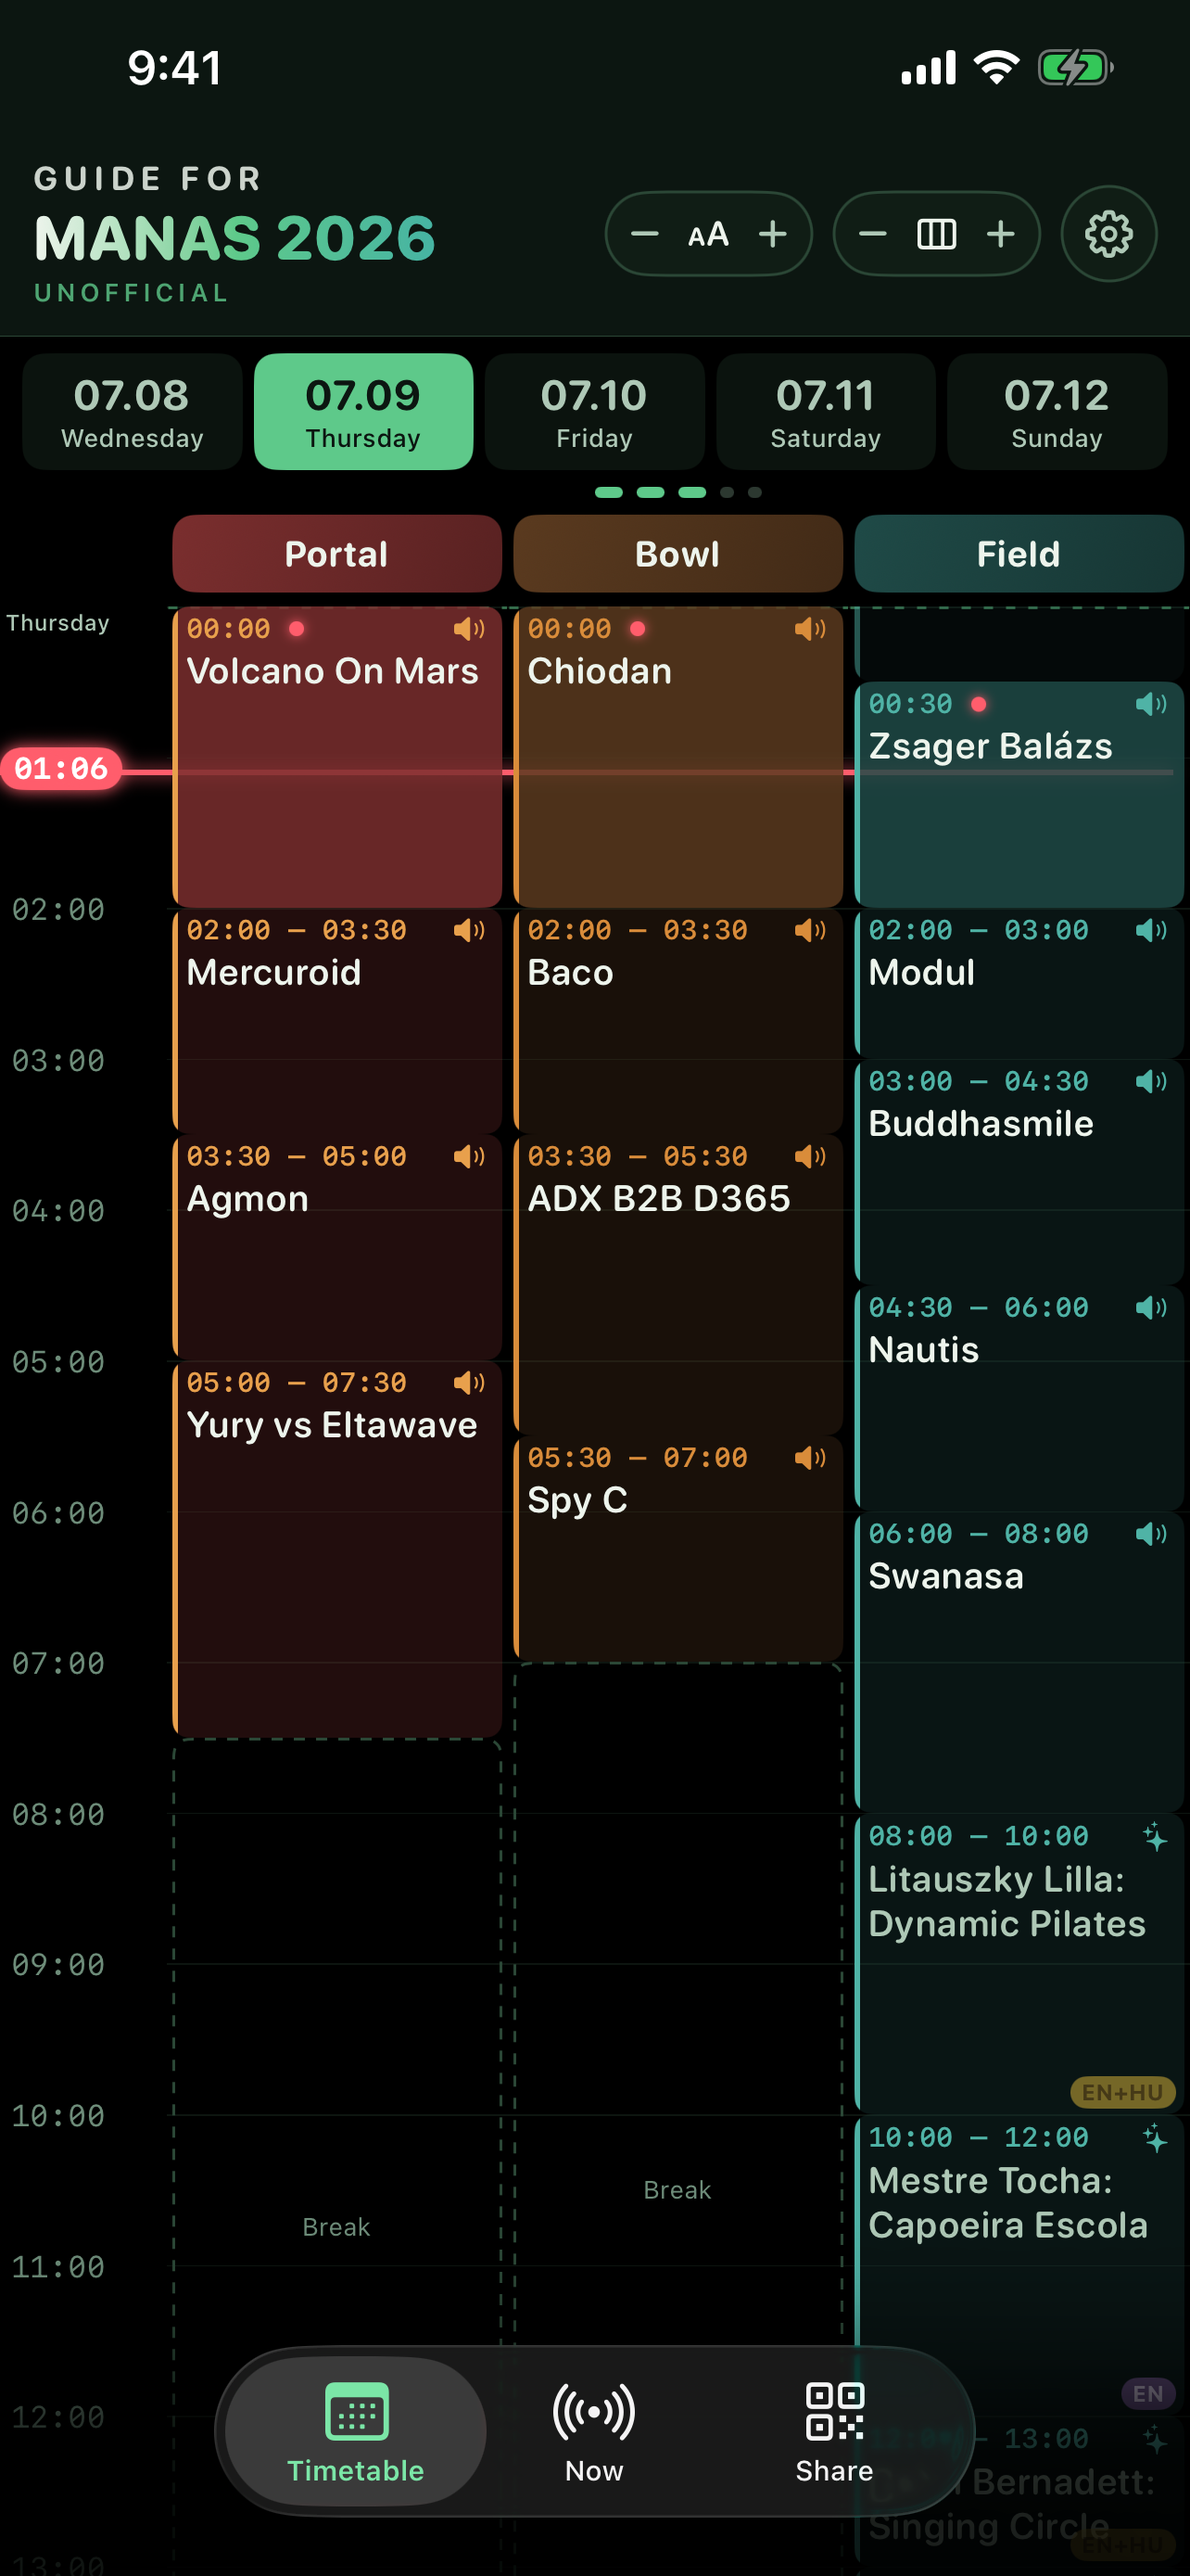
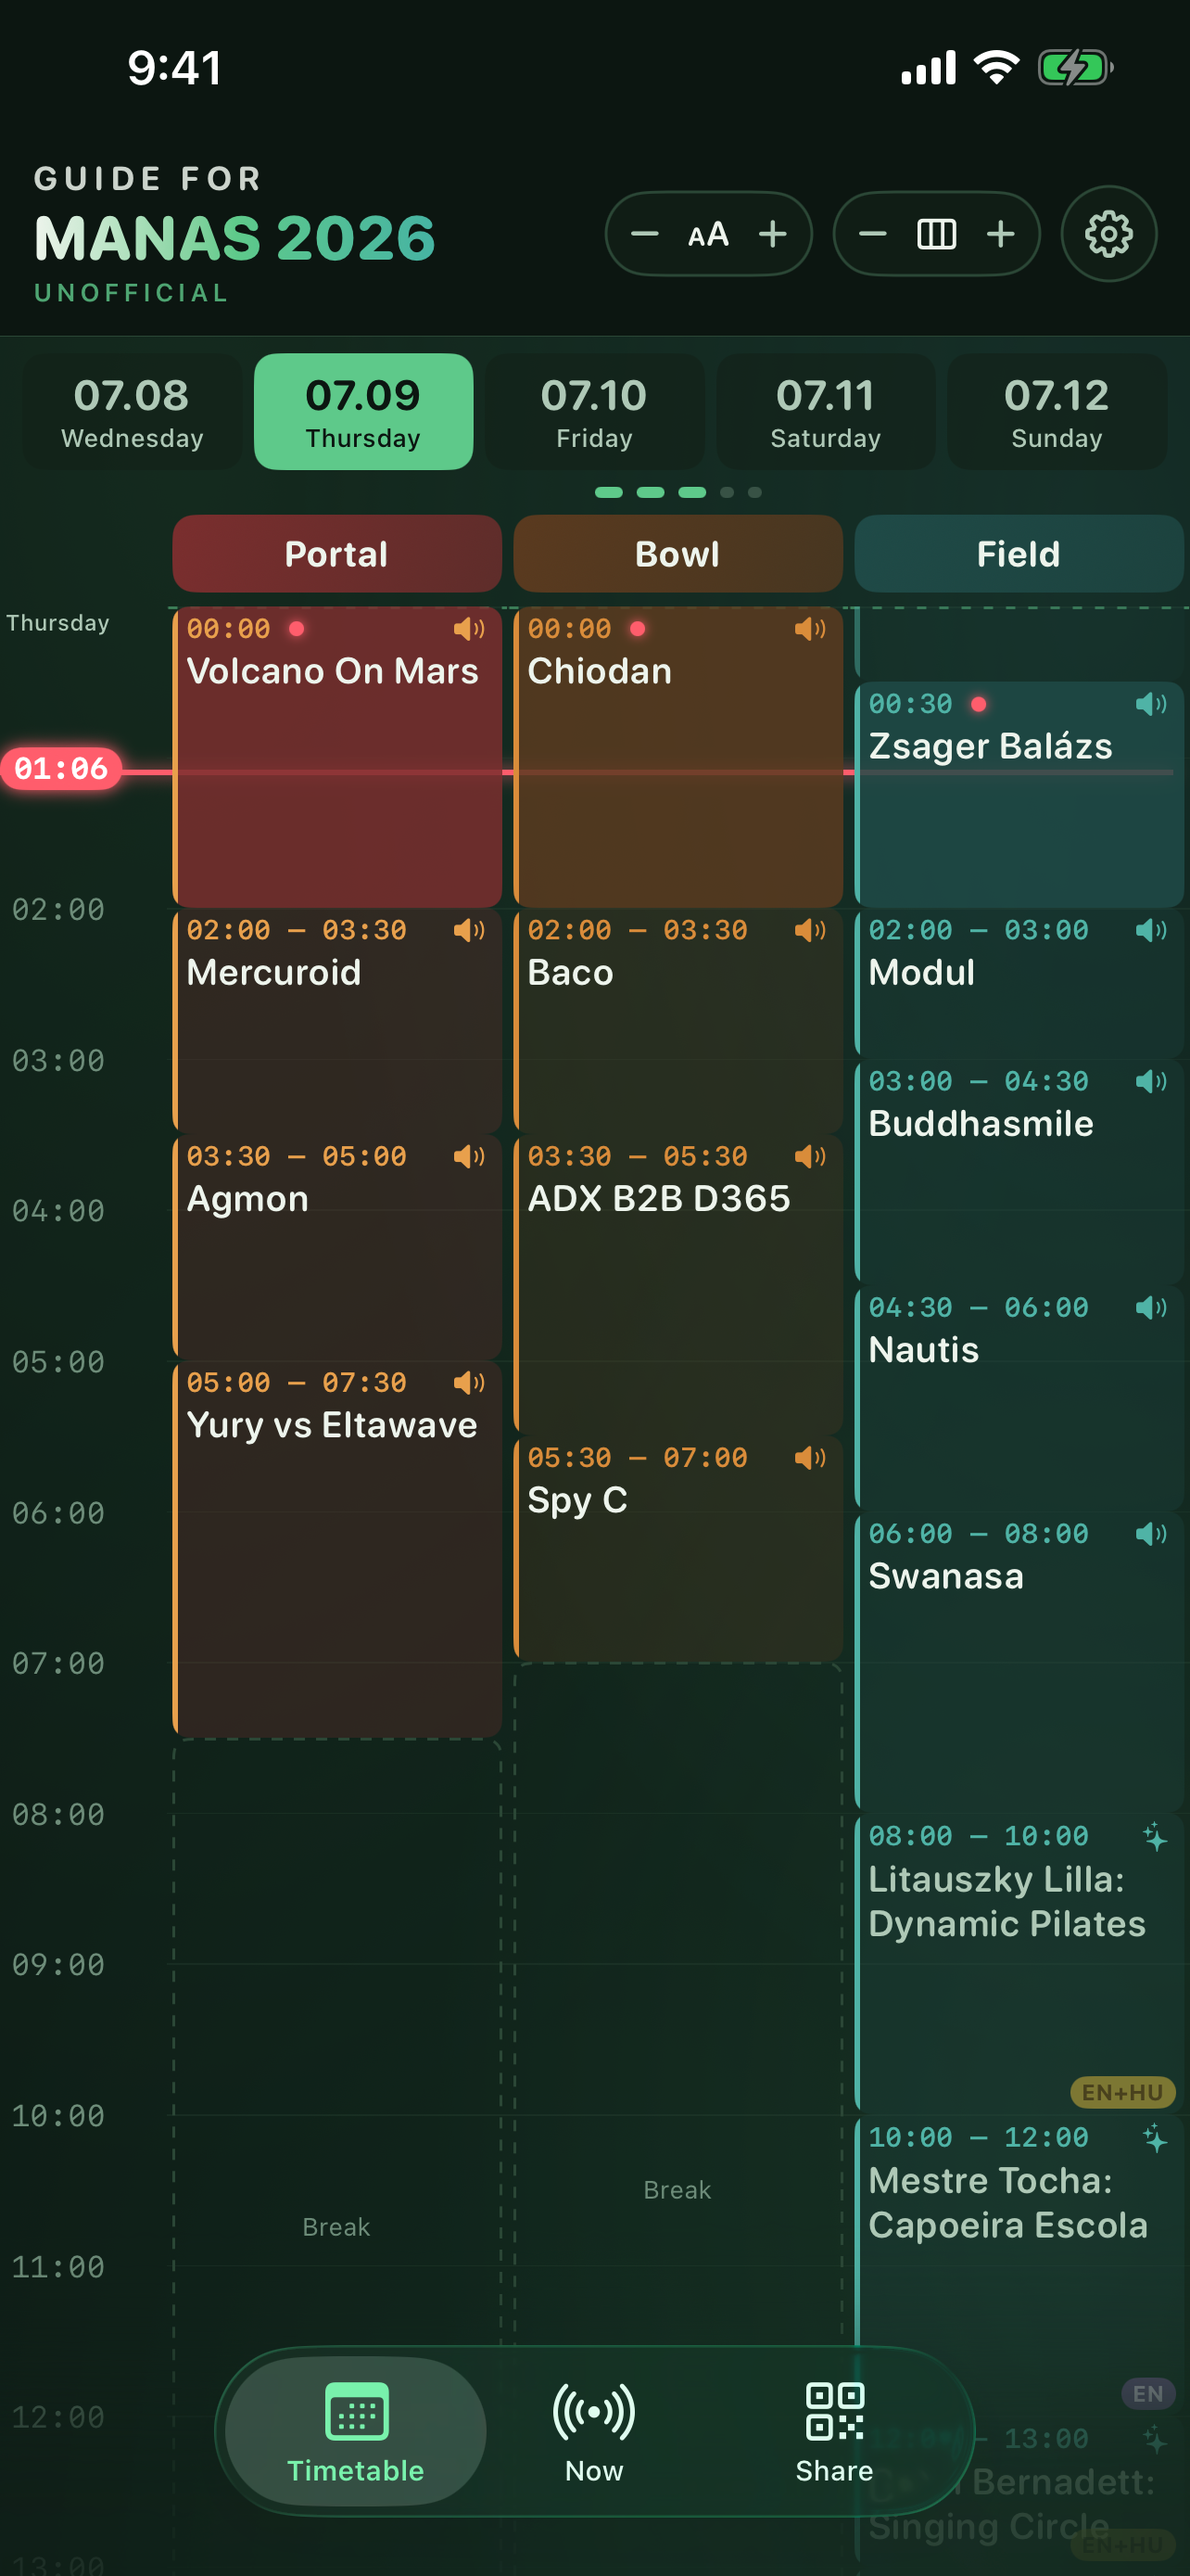
feat(ios): add PWA-style background gradient and opening-day & GROUNDING App Store shots
Port the web's body radial-gradient fade to the iOS app as a soft green/teal glow below the header (the header keeps its flat band). Slow the opening-day tent pitch to match the web (~5.2s) and gently wave the flag. Freeze now-view motion (tent, flag, live dot, event-icon pulse) during screenshot captures via the existing manas.hideTestUI flag, so the tent renders fully pitched instead of a random frame. Add two App Store shots — the opening-day camp scene (Bowl playing, you-are-here at the Bowl) and the post-festival GROUNDING Days link — and refresh the existing iPhone shots for the new background.

diff --git a/apple/Sources/ManasKit/CampScene.swift b/apple/Sources/ManasKit/CampScene.swift
@@ -34,6 +34,10 @@ public extension ScheduleData {
 /// frame it's given, so iOS (220×150) and the watch reuse the same drawing.
 public struct TentArt: View {
     @Environment(\.accessibilityReduceMotion) private var reduceMotion
+    // Render motionless for Reduce Motion — and for marketing captures: the
+    // screenshot harness sets `manas.hideTestUI`, so the tent shows fully
+    // pitched instead of a random animation frame.
+    private var still: Bool { reduceMotion || AppEnv.hideTestUI }
 
     public init() {}
 
@@ -67,7 +71,7 @@ public struct TentArt: View {
                 GrassTufts()
                     .stroke(Theme.leaf, style: StrokeStyle(lineWidth: 2, lineCap: .round))
                     .opacity(0.7)
-                if reduceMotion {
+                if still {
                     tentGroup
                 } else {
                     PhaseAnimator(TentPhase.allCases) { phase in
@@ -91,9 +95,9 @@ private enum TentPhase: CaseIterable {
     var animation: Animation {
         switch self {
         case .seed: return .linear(duration: 0.01)   // invisible reset
-        case .up:   return .easeOut(duration: 1.1)    // pitch up
-        case .hold: return .linear(duration: 1.8)     // hold
-        case .gone: return .easeIn(duration: 0.7)     // fade out
+        case .up:   return .easeOut(duration: 2.0)    // pitch up
+        case .hold: return .linear(duration: 2.3)     // hold
+        case .gone: return .easeIn(duration: 0.9)     // fade out
         }
     }
 }
@@ -164,15 +168,16 @@ private struct GrassTufts: Shape {
 private struct TentFlag: View {
     @Environment(\.accessibilityReduceMotion) private var reduceMotion
     @State private var furled = false
+    private var still: Bool { reduceMotion || AppEnv.hideTestUI }
 
     var body: some View {
         Tri(pts: [.init(x: 0.5, y: 0.16), .init(x: 0.6, y: 0.2), .init(x: 0.5, y: 0.24)])
             .fill(Color(hex: "#e0913f"))
-            .scaleEffect(x: (!reduceMotion && furled) ? 0.5 : 1, y: 1,
+            .scaleEffect(x: (!still && furled) ? 0.5 : 1, y: 1,
                          anchor: UnitPoint(x: 0.5, y: 0.2))
-            .animation(reduceMotion ? nil
-                       : .easeInOut(duration: 0.85).repeatForever(autoreverses: true),
+            .animation(still ? nil
+                       : .easeInOut(duration: 1.1).repeatForever(autoreverses: true),
                        value: furled)
-            .onAppear { if !reduceMotion { furled = true } }
+            .onAppear { if !still { furled = true } }
     }
 }

diff --git a/apple/Sources/Manas-iOS/RootView.swift b/apple/Sources/Manas-iOS/RootView.swift
@@ -27,14 +27,21 @@ struct RootView: View {
                         Divider().overlay(Theme.line)
                     }
 
+                    // Gradient only below the header: each tab page gets it as a
+                    // background (the TabView's own content layer is opaque, so a
+                    // single layer behind it wouldn't show through). The header
+                    // keeps its flat band above the divider.
                     TabView(selection: $tab) {
                         TimetableView(isLandscape: landscape, compactHeader: $compactHeader)
+                            .background(AppBackground())
                             .tabItem { Label(L.t("nav.timetable", settings.locale), systemImage: "calendar") }
                             .tag(0)
                         NowView()
+                            .background(AppBackground())
                             .tabItem { Label(L.t("nav.now", settings.locale), systemImage: "dot.radiowaves.left.and.right") }
                             .tag(1)
                         ShareView()
+                            .background(AppBackground())
                             .tabItem { Label(L.t("nav.share", settings.locale), systemImage: "qrcode") }
                             .tag(2)
                     }
@@ -232,5 +239,25 @@ private extension View {
         padding(2)
             .background(Theme.ink2.opacity(0.7), in: Capsule())
             .overlay(Capsule().stroke(Theme.line))
+    }
+}
+
+/// Flat ink base with soft green/teal corner glows — mirrors the PWA's body
+/// radial-gradients (`pwa/app/globals.css`). Fills the whole window behind the
+/// tabs (the PWA's are `background-attachment: fixed`, i.e. viewport-anchored).
+struct AppBackground: View {
+    var body: some View {
+        Theme.ink
+            .overlay(glow("#2e6b4a", 0.24, .init(x: 0.16, y: 0.05), 0.78))  // top-left green
+            .overlay(glow("#46b3a3", 0.16, .init(x: 0.92, y: 0.10), 0.68))  // top-right teal
+            .overlay(glow("#1e523c", 0.30, .init(x: 0.50, y: 1.04), 0.95))  // bottom green
+            .overlay(glow("#5ec98a", 0.09, .init(x: 0.90, y: 0.82), 0.55))  // bottom-right sun
+            .ignoresSafeArea(edges: .bottom)
+    }
+
+    private func glow(_ hex: String, _ opacity: Double,
+                      _ center: UnitPoint, _ radius: CGFloat) -> some View {
+        EllipticalGradient(colors: [Color(hex: hex).opacity(opacity), .clear],
+                           center: center, endRadiusFraction: radius)
     }
 }

diff --git a/apple/Sources/Manas-iOS/NowView.swift b/apple/Sources/Manas-iOS/NowView.swift
@@ -174,7 +174,7 @@ private struct OpeningStageCard: View {
                     .font(.system(size: 16, weight: .semibold))
                     .foregroundStyle(Theme.cream.opacity(0.9))
                     .shadow(color: near ? Theme.cream : .clear, radius: near ? 4 : 0)
-                    .symbolEffect(.pulse, options: .repeating, isActive: near)
+                    .symbolEffect(.pulse, options: .repeating, isActive: near && !AppEnv.hideTestUI)
             }
             .padding(.horizontal, 14).padding(.vertical, 9)
             .background(LinearGradient(colors: [color, color.opacity(0.73)],
@@ -316,13 +316,14 @@ private struct LiveDot: View {
     let locale: AppLocale
     @Environment(\.accessibilityReduceMotion) private var reduceMotion
     @State private var on = false
+    private var still: Bool { reduceMotion || AppEnv.hideTestUI }
 
     var body: some View {
         Circle().fill(Theme.now).frame(width: 9, height: 9)
-            .opacity(reduceMotion ? 1 : (on ? 0.45 : 1))
-            .scaleEffect(reduceMotion ? 1 : (on ? 0.8 : 1))
-            .animation(reduceMotion ? nil : .easeInOut(duration: 0.9).repeatForever(autoreverses: true), value: on)
-            .onAppear { if !reduceMotion { on = true } }
+            .opacity(still ? 1 : (on ? 0.45 : 1))
+            .scaleEffect(still ? 1 : (on ? 0.8 : 1))
+            .animation(still ? nil : .easeInOut(duration: 0.9).repeatForever(autoreverses: true), value: on)
+            .onAppear { if !still { on = true } }
             .accessibilityLabel(L.t("now.playingNow", locale))
     }
 }
@@ -359,7 +360,7 @@ private struct StageNowCard: View {
                         .font(.system(size: 16, weight: .semibold))
                         .foregroundStyle(Theme.cream.opacity(0.9))
                         .shadow(color: near ? Theme.cream : .clear, radius: near ? 4 : 0)
-                        .symbolEffect(.pulse, options: .repeating, isActive: near)
+                        .symbolEffect(.pulse, options: .repeating, isActive: near && !AppEnv.hideTestUI)
                 }
             }
             .padding(.horizontal, 14).padding(.vertical, 9)
